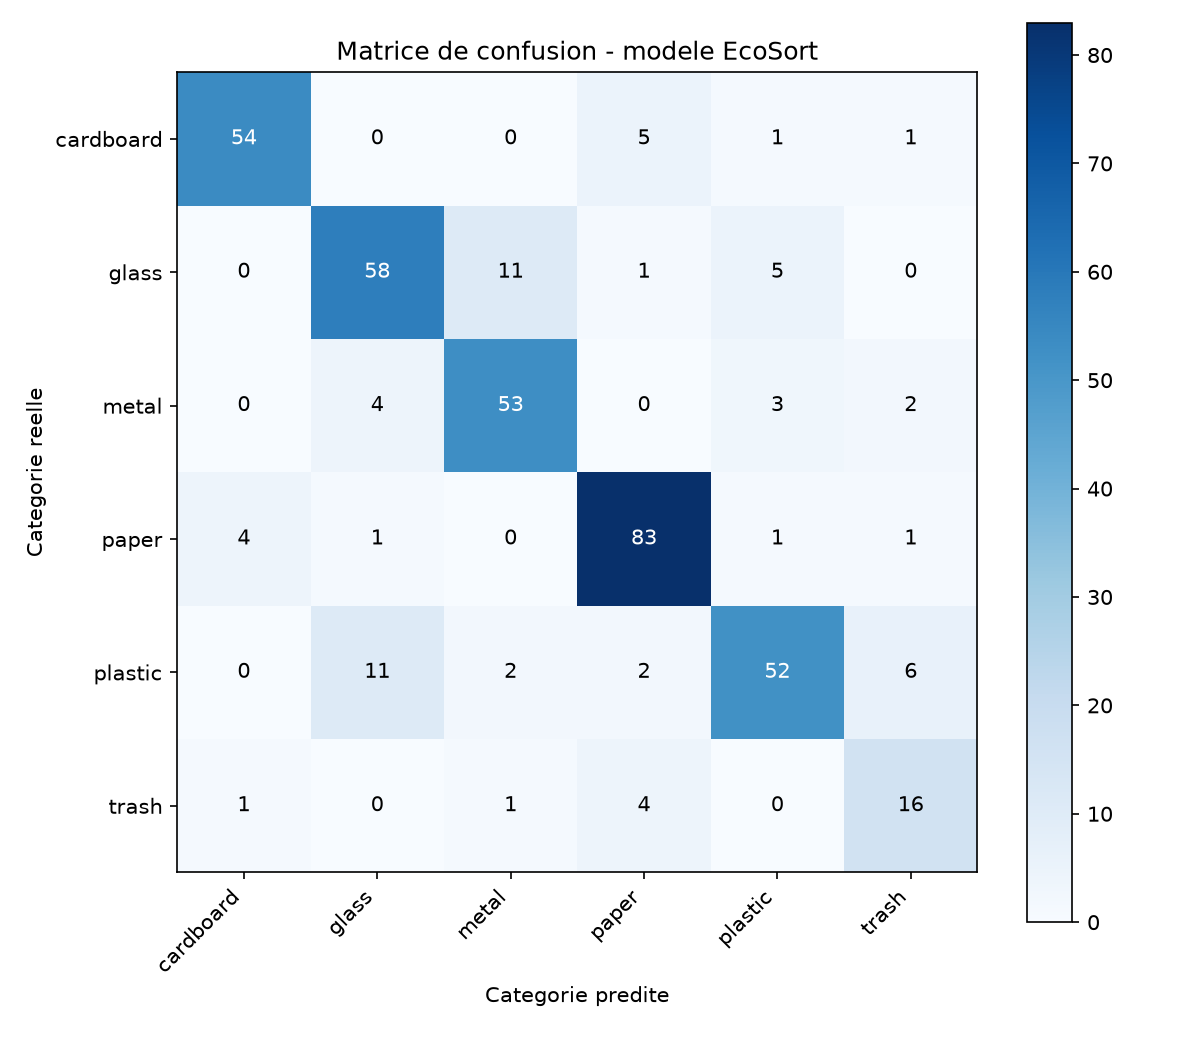
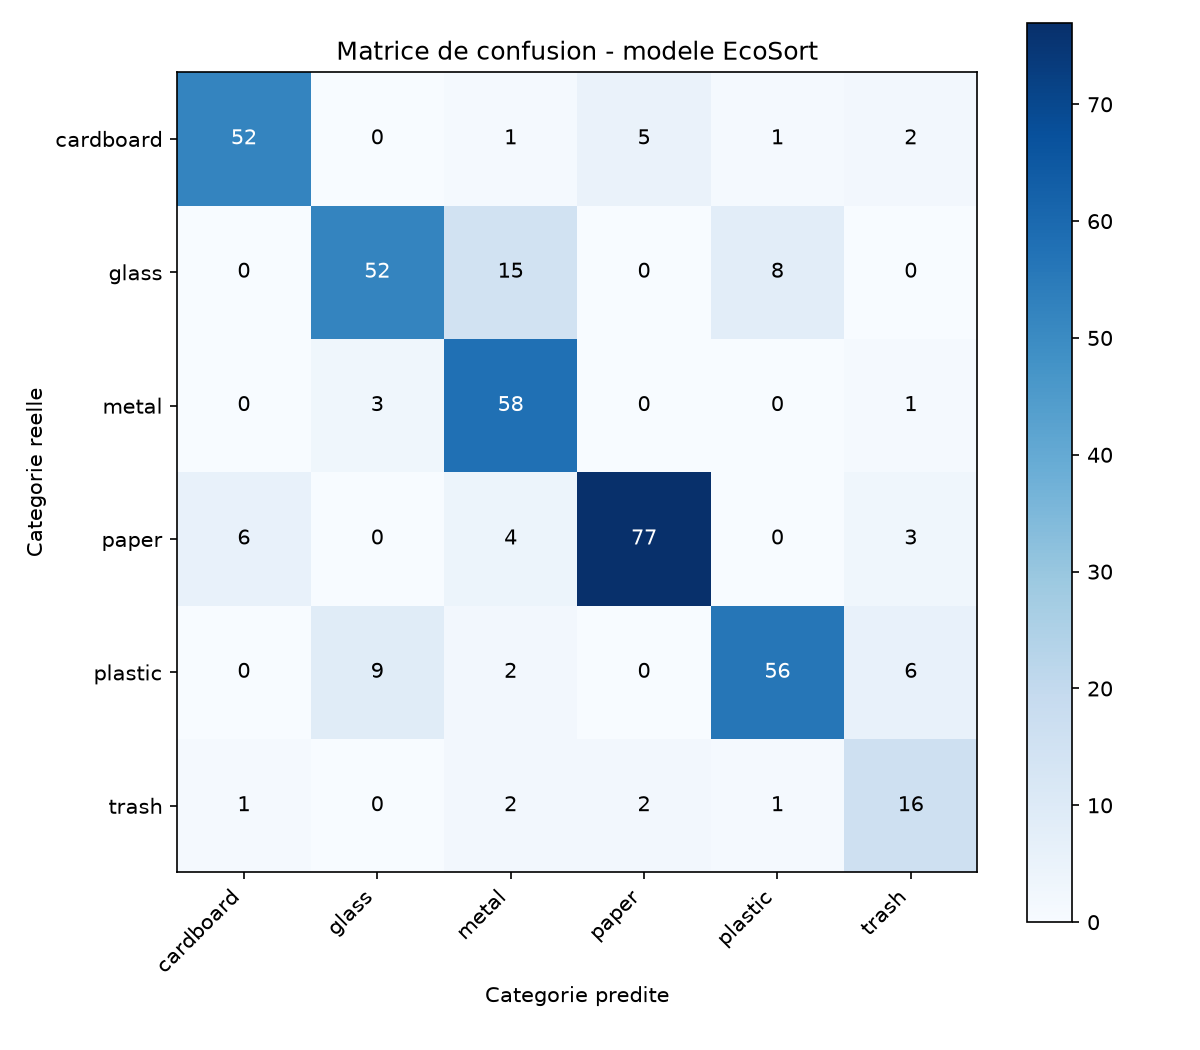
Ajoute data augmentation et fine-tuning : meilleure generalisation (ecart train/val reduit de 9 a 4 points), test 81.20%

diff --git a/model/train.py b/model/train.py
@@ -84,7 +84,15 @@ base_model = tf.keras.applications.MobileNetV2(
 base_model.trainable = False  # on gele le reseau pre-entraine pour cette baseline
 
 inputs = tf.keras.Input(shape=TAILLE_IMAGE + (3,))
-x = layers.Rescaling(scale=1./127.5, offset=-1, name="preprocessing")(inputs)
+# Data augmentation : appliquee uniquement pendant l'entrainement
+data_augmentation = tf.keras.Sequential([
+    layers.RandomFlip("horizontal"),
+    layers.RandomRotation(0.1),
+    layers.RandomZoom(0.1),
+    layers.RandomContrast(0.1),
+], name="augmentation")
+x = data_augmentation(inputs)
+x = layers.Rescaling(scale=1./127.5, offset=-1, name="preprocessing")(x)
 x = base_model(x, training=False)
 x = layers.GlobalAveragePooling2D()(x)
 x = layers.Dropout(0.3)(x)   # limite le sur-apprentissage
@@ -103,6 +111,9 @@ model.summary()
 # ---------------------------------------------------------
 # 5. Entrainement
 # ---------------------------------------------------------
+# ---------------------------------------------------------
+# 5a. Premiere phase : tete gelee (comme la baseline)
+# ---------------------------------------------------------
 callbacks = [
     tf.keras.callbacks.EarlyStopping(
         monitor="val_accuracy", patience=5, restore_best_weights=True
@@ -112,7 +123,8 @@ callbacks = [
     ),
 ]
 
-historique = model.fit(
+print("\n=== PHASE 1 : entrainement tete gelee ===")
+historique_1 = model.fit(
     train_ds,
     validation_data=val_ds,
     epochs=EPOCHS,
@@ -121,9 +133,56 @@ historique = model.fit(
 )
 
 # ---------------------------------------------------------
+# 5b. Deuxieme phase : fine-tuning des dernieres couches
+# ---------------------------------------------------------
+print("\n=== PHASE 2 : fine-tuning des dernieres couches de MobileNetV2 ===")
+
+base_model.trainable = True
+# On ne degele que les 30 dernieres couches (les plus "specifiques"),
+# les premieres couches (formes/textures generiques) restent gelees
+for couche in base_model.layers[:-30]:
+    couche.trainable = False
+
+meilleur_val_acc_phase1 = max(historique_1.history["val_accuracy"])
+print(f"Meilleure val_accuracy phase 1 : {meilleur_val_acc_phase1:.4f}")
+
+model.compile(
+    optimizer=tf.keras.optimizers.Adam(learning_rate=1e-5),  # taux tres faible !
+    loss="categorical_crossentropy",
+    metrics=["accuracy"],
+)
+
+# Nouveaux callbacks : ModelCheckpoint sait desormais qu'il doit battre
+# le score de la phase 1 pour ecraser le fichier .h5, pas juste ameliorer
+# a partir de zero
+callbacks_finetuning = [
+    tf.keras.callbacks.EarlyStopping(
+        monitor="val_accuracy", patience=5, restore_best_weights=True
+    ),
+    tf.keras.callbacks.ModelCheckpoint(
+        "model/modele_eco_sort.h5", monitor="val_accuracy", save_best_only=True,
+        initial_value_threshold=meilleur_val_acc_phase1
+    ),
+]
+
+EPOCHS_FINETUNING = 15
+historique_2 = model.fit(
+    train_ds,
+    validation_data=val_ds,
+    epochs=EPOCHS_FINETUNING,
+    class_weight=class_weight,
+    callbacks=callbacks_finetuning,
+)
+
+# Fusionne les historiques des 2 phases pour les graphiques
+historique = {
+    k: historique_1.history[k] + historique_2.history[k]
+    for k in historique_1.history
+}
+
+# ---------------------------------------------------------
 # 6. Sauvegarde de l'historique (utile pour les graphiques du rapport)
 # ---------------------------------------------------------
 with open("model/historique_entrainement.json", "w") as f:
-    json.dump(historique.history, f)
-
+    json.dump(historique, f)
 print("\nEntrainement termine. Modele sauvegarde dans model/modele_eco_sort.h5")